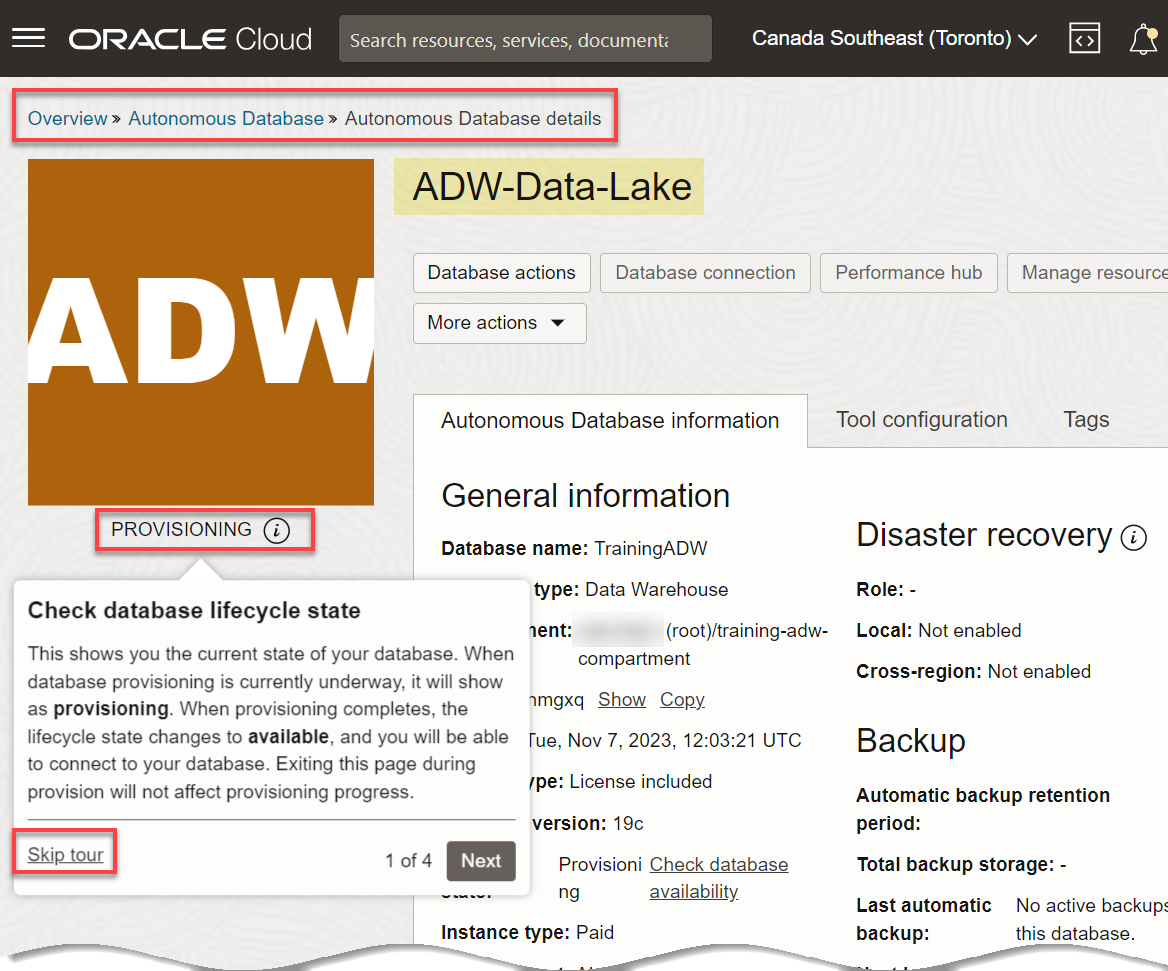
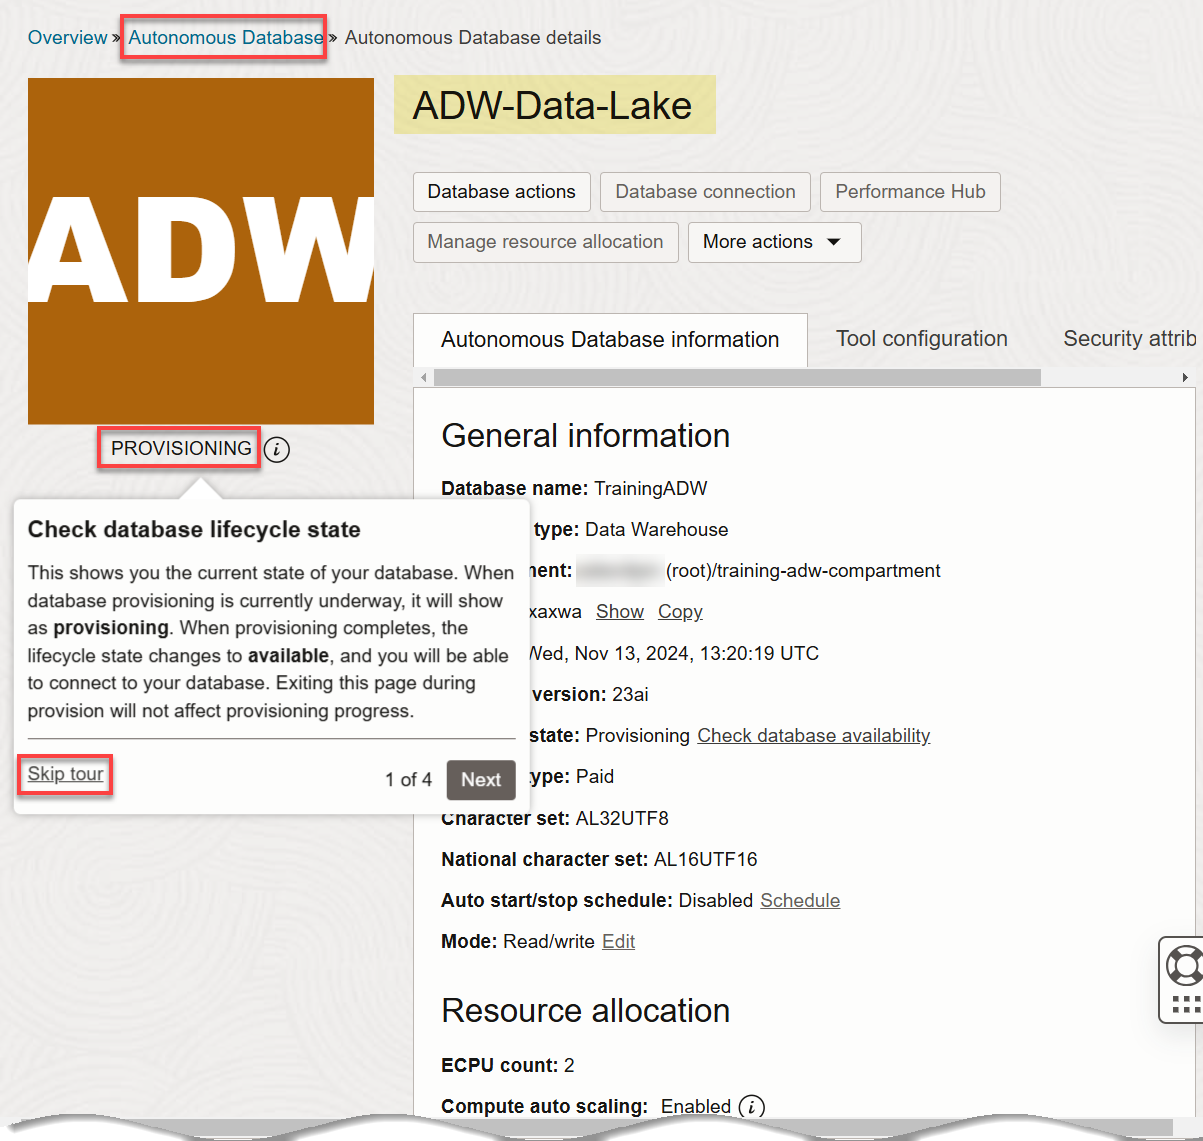
data share cloud links db actions green button version

diff --git a/shared/adw-data-lake/setup-live-data-sharing-db-actions/create-user-storage-credentials/create-user-storage-credentials.md b/shared/adw-data-lake/setup-live-data-sharing-db-actions/create-user-storage-credentials/create-user-storage-credentials.md
@@ -20,14 +20,27 @@ As an **`admin`** user, you will do the following:
 
 ## Task 1: Navigate to the Database Actions Launchpad
 
+<if type="livelabs">
+Your green button reservation includes an ADB instance. You can find the required credentials in the **Reservation Information** dialog box for your reservation. To log in to the Console, click the **Launch OCI** button in the **Reservation Information** dialog box, and then follow the prompts to reset your assigned password.
+</if>
+
+<if type="freetier">
 After you provisioned an ADB instance in the **Set up the Workshop Environment** lab, the **Autonomous Database details** page was displayed. If the page is active, start with **step 4** below. If the page had timed out, start with **step 1** below.
+</if>
 
 1. Log in to the **Oracle Cloud Console**, if you are not already logged in.
 
 2. Open the **Navigation** menu and click **Oracle Database**. Under **Oracle Database**, click **Autonomous Database**.
 
 3. On the **Autonomous Databases** page, click your **ADW-Data-Lake** ADB instance.
+    
+    <if type="freetier">
     ![The Autonomous Database is displayed and highlighted.](./images/adb-page.png " ")
+    </if>
+
+    <if type="livelabs">
+    ![The Autonomous Database is displayed and highlighted.](./images/ll-adb-page.png " ")
+    </if>
 
     >**Note:** If you get a _Forbidden_ message on the **Autonomous Databases** page, that indicates that you are in the wrong compartment. Refer to the **Reservation Information** panel for your reservation and make a note of your assigned compartment. Next, on the same page, click the **Compartment** drop-down list in the **Scope** section, and selected your assigned compartment.
 
@@ -47,9 +60,7 @@ Oracle Autonomous Database Serverless enables the data share provider to share e
 
 Autonomous Database comes with a predefined database role named `DWROLE`. This role provides the privileges necessary for most database users;however, The `DWROLE` role does not allocate any tablespace quota to the user. If the user is going to be adding data or other objects, you need to grant the user tablespace quota. For more information about this role, see [Manage Database User Privileges](https://docs.oracle.com/en-us/iaas/autonomous-database/doc/managing-database-users.html).
 
-1. Click **Database Actions Launchpad** in the banner to display the **Launchpad** page.
-
-2. Click the **Administration** tab, and then click the **Database Users** tab.
+1. On the **Database Actions Launchpad** page, click the **Administration** tab, and then click the **Database Users** tab.
 
     ![Click Administration and then Database Users.](./images/database-users.png " ")
 
@@ -57,24 +68,24 @@ Autonomous Database comes with a predefined database role named `DWROLE`. This r
 
     ![The User Management page.](./images/user-management-1.png " ")
 
-3. Click **Create User**. In the **Create User** panel, provide the following information in the **User** tab.
+2. Click **Create User**. In the **Create User** panel, provide the following information in the **User** tab.
 
     * **User Name:** `SHARE_PROVIDER`
     * **Password:** `DataShare4ADW`
-    * **Web Access:** Enable this field
     * **Quota on tablespace data:** `UNLIMITED`
-
+    * **Web Access:** Enable this field
+    
         ![The User tab.](./images/user-tab.png " ")
 
-4. Click the **Granted Roles** tab. In the **Filter by role** field, enter **`dwrole`**. The **DWROLE** row is displayed. Select the **Granted** and **Default** checkboxes.
+3. Click the **Granted Roles** tab. In the **Filter by role** field, enter **`dwrole`**. The **DWROLE** row is displayed. Select the **Granted** and **Default** checkboxes.
 
     ![The Granted Roles tab.](./images/granted-roles-tab.png " ")
 
-5. Click **Create User**. The new `SHARE_PROVIDER` user is displayed in the **User Management** page.
+4. Click **Create User**. The new `SHARE_PROVIDER` user is displayed in the **User Management** page.
 
     ![Share_provider user is created.](./images/share-provider-created.png " ")
 
-6. Click **Database Actions** in the banner to display the **Launchpad** page.
+5. Click **Database Actions** in the banner to display the **Launchpad** page.
 
     ![Click Database Actions.](./images/click-database-actions.png " ")
 
@@ -96,81 +107,7 @@ Autonomous Database comes with a predefined database role named `DWROLE`. This r
 
     ![The provider and consumer page is re-displayed.](./images/information.png " ")
 
-<!--
-
-5. Sign out of the **`ADMIN`** user.
-
-    ![Sign out.](./images/sign-out.png " ")
-
-6. Sign back in as the **`ADMIN`** user and enter the admin's password, **`Training4ADW`**. On the **Database Actions Launchpad** page, click the **Data Studio** tab, and then click the **Data Sharing** tab. The **Provider and Consumer** page is re-displayed.
-
-    ![Provider and Consumer page.](./images/provider-consumer-page.png " ")
-
--->
-
-<!--
-
-5. The first time you open the SQL Worksheet, a series of pop-up informational boxes may appear, providing you with a tour that introduces the main features. If not, click the **Tour** icon (binoculars) in the upper right corner of the toolbar. To take the tour through the informational boxes, click **Next**. To exit the tour, click the **X** control.
-
-    ![SQL Worksheet.](./images/adb-sql-worksheet-opening-tour.png " ")
-
-6. Click the **X** control to exit the tour. The SQL Worksheet is displayed.
-
-    ![The SQL Worksheet is displayed.](./images/sql-worksheet.png " ")
--->
-
-
-<!--
-Copy and paste the following script into your SQL Worksheet, and then click the **Run Script (F5)** icon in the Worksheet toolbar.
-
-    ```
-    <copy>
-    -- Create a new user that will provide the shared data.
-
-    CREATE USER share_provider IDENTIFIED BY DataShare4ADW;
-
-    -- Grant the new user the required role and privileges.
-
-    GRANT CONNECT TO share_provider;
-    GRANT DWROLE TO share_provider;
-    GRANT RESOURCE TO share_provider;
-    GRANT UNLIMITED TABLESPACE TO share_provider;
-
-    -- Enable REST.
-
-    BEGIN
-        ORDS_ADMIN.ENABLE_SCHEMA(
-            p_enabled => TRUE,
-            p_schema => 'SHARE_PROVIDER',
-            p_url_mapping_type => 'BASE_PATH',
-            p_url_mapping_pattern => 'share_provider',
-            p_auto_rest_auth=> TRUE
-        );
-
-    -- Enable data sharing.
-        DBMS_SHARE.ENABLE_SCHEMA(
-        SCHEMA_NAME => 'SHARE_PROVIDER',
-        ENABLED => TRUE
-        );
-       commit;
-    END;
-    /
-    </copy>
-    ```
-
-    ![Run the script](images/run-script.png)
-
-    The results are displayed in the **Script Output** tab.
-
-    ![View the script results](images/script-results.png)
-
-    >**Note:** If you can't see the newly created **share\_provider** user in the first drop-down list in the **Navigator** tab, log out of the **`admin`** user. On the **Oracle Database Actions | SQL** banner, click the drop-down list next to the **`ADMIN`** user, and then select **Sign Out** from the drop-down menu. Next, log back in as the **`ADMIN`** user. On the **Sign-in** page, enter **`ADMIN`** as the username and **`DataShare4ADW`** as the password, and then click **Sign in**. Click the the first drop-down menu and select the **share_provider** user.
-
-    ![Sign out to view the new user](images/sign-out.png)
-
--->
-
-## Task 3: (Optional) Create a Share Consumer User and Grant Privileges to the User
+## Task 4: (Optional) Create a Share Consumer User and Grant Privileges to the User
 
 Create a new consumer user named **`share_consumer`**.
 
@@ -184,9 +121,9 @@ Create a new consumer user named **`share_consumer`**.
 
     * **User Name:** `SHARE_CONSUMER`
     * **Password:** `DataShare4ADW`
+     * **Quota on tablespace data:** `UNLIMITED`
     * **Web Access:** Enable this field
-    * **Quota on tablespace data:** `UNLIMITED`
-
+   
         ![The User tab.](./images/share-consumer-user-tab.png " ")
 
 4. Click the **Granted Roles** tab. In the **Filter by role** field, enter **`dwrole`**. The **DWROLE** row is displayed. Select the **Granted** and **Default** checkboxes.
@@ -201,7 +138,7 @@ Create a new consumer user named **`share_consumer`**.
 
     ![Log out of admin](images/logout-admin.png)
 
-7. Log in as the newly created user, **`share_provider`**. On the **Sign-in** page, enter **`share_provider`** as the username and **`DataShare4ADW`** as the password, and then click **Sign in**. The Database Actions Launchpad page is displayed.
+7. Log in as the newly created user, **`share_provider`**. On the **Sign-in** page, enter **`share_provider`** as the username and **`DataShare4ADW`** as the password, and then click **Sign in**. The **Database Actions Launchpad** page is displayed.
 
     ![Log in as share_provider](images/login-share-provider.png)
 
@@ -219,7 +156,7 @@ You may now proceed to the next lab.
 
 * **Author:** Lauran K. Serhal, Consulting User Assistance Developer
 * **Contributor:** Alexey Filanovskiy, Senior Principal Product Manager
-* **Last Updated By/Date:** Lauran K. Serhal, July 2024
+* **Last Updated By/Date:** Lauran K. Serhal, November 2024
 
 Data about movies in this workshop were sourced from Wikipedia.
 
@@ -229,4 +166,4 @@ Permission is granted to copy, distribute and/or modify this document
 under the terms of the GNU Free Documentation License, Version 1.3
 or any later version published by the Free Software Foundation;
 with no Invariant Sections, no Front-Cover Texts, and no Back-Cover Texts.
-A copy of the license is included in the section entitled [GNU Free Documentation License](files/gnu-free-documentation-license.txt)
+A copy of the license is included in the section entitled [GNU Free Documentation License](https://oracle-livelabs.github.io/adb/shared/adb-15-minutes/introduction/files/gnu-free-documentation-license.txt)

diff --git a/shared/adw-data-lake/setup-live-data-sharing-db-actions/setup-workshop-environment/setup-workshop-environment.md b/shared/adw-data-lake/setup-live-data-sharing-db-actions/setup-workshop-environment/setup-workshop-environment.md
@@ -106,7 +106,7 @@ A Cloud Administrator can optionally create a compartment in your tenancy to hel
        * **Display Name:** **`ADW-Data-Lake`**.
        * **Database Name:** **`TrainingADW`**.
 
-       ![The completed "Provide basic information for the Autonomous Database" section is displayed.](./images/adb-basic-info.png " ")
+       ![The completed "Provide basic information for the Autonomous Database" section is displayed.](./images/adb-basic-info.png =75%x*)
 
 5. In the **Choose a workload type** section, accept the **Data Warehouse** default selection.
 
@@ -116,18 +116,21 @@ A Cloud Administrator can optionally create a compartment in your tenancy to hel
 
        ![The selected Shared Infrastructure option of the "Choose a deployment type" section is displayed and highlighted.](./images/adb-deployment-type.png " ")
 
-<!--- This is a comment. --->
-
 7. In the **Configure the database** section, accept the default selections as follows:
 
-       * **Always Free:** An Always Free database is especially useful for development and trying new features. You can deploy an Always Free instance in an Always Free account or a paid account. The only option you can specify in an Always Free database is the database version.  For this lab, we recommend that you leave the **Always Free** option disabled unless you are in an Always Free account.
-       * **Choose database version:** Accept the default selection.
-       * **ECPU count:** **`2`**.
-       * **Compute auto scaling:** Leave the checkbox checked (default).
-       * **Storage (TB):** **`1`** (TB).
-       * **Storage auto scaling:** Leave the checkbox unchecked (default).
+       - **Always Free**: An Always Free databases are especially useful for development and trying new features. You can deploy an Always Free instance in an Always Free account or paid account. However, it must be deployed in the home region of your tenancy. The only option you specify in an Always Free database is the database version. For this lab, we recommend you leave **Always Free** unchecked unless you are in an Always Free account.
+       - **Developer**: Developer databases provide a great low cost option for developing apps with Autonomous Database. You have similar features to Always Free - but are not limited in terms of region deployments or the number of databases in your tenancy. You can upgrade your Developer Database to a full paid version later and benefit from greater control over resources, backups and more.
+       - **Choose database version**: Select your database version from this drop-down list.
+       - **ECPU count**: Choose the number of ECPUs for your service. For this lab, specify **[](var:db_ocpu)**. If you choose an Always Free database, you do not need to specify this option.
+       - **Storage (TB)**: Select your storage capacity in terabytes. For this lab, specify **[](var:db_storage)** of storage. Or, if you choose an Always Free database, it comes with 20 GB of storage.
+       - **Compute auto scaling**: Accept the default which is enabled. This enables the system to automatically use up to three times more compute and IO resources to meet workload demand.
+       - **Storage auto scaling**: For this lab, there is no need to enable storage auto scaling, which would allow the system to expand up to three times the reserved storage.
 
-       ![The completed "Configure the database" section is displayed.](./images/adb-configure-db-ecpu.png " ")
+       > **Note:** You cannot scale up/down an Always Free autonomous database.
+
+       ![Choose the remaining parameters.](./images/adb-create-screen-configure-db-new.png =80%x*)
+
+       >**Note:** You can click the **Show advanced options** link to use your organization's on-premise licenses with **bring your own license** or to take advantage of database consolidation savings with **elastic pools**.
 
 8. In the **Backup retention** section, you can either accept the default value or specify your own preferred backup retention days value. Accept the default **60** days default value.
 
@@ -141,15 +144,15 @@ A Cloud Administrator can optionally create a compartment in your tenancy to hel
        **Important:** Make a note of this _password_ as you will need it to perform later tasks.
        * **Confirm password:** Confirm your password.
 
-       ![The completed "Create administrator credentials" section is displayed.](./images/adb-admin-credentials.png " ")
+       ![The completed "Create administrator credentials" section is displayed.](./images/adb-admin-credentials.png =65%x*)
 
 10. In the **Choose network access** section, select the **Secure access from everywhere** option as the access type.
 
        ![The selected "Secure access from everywhere" option of the "Choose network access" section is displayed and highlighted.](./images/adb-network-access.png " ")
 
-11. In the **Choose a license and Oracle Database edition** section, accept the default selection, **This Database is provisioned with License included license type**.
+11. In the **Provide contacts for operational notifications and announcements** section, do not provide a contact email address. The **Contact email** field allows you to list contacts to receive operational notices and announcements as well as unplanned maintenance notifications.
 
-       ![Accept the default license selection.](./images/license-default.png " ")
+       ![Do not provide a contact email address.](images/adb-create-screen-contact-email.png "email")
 
 12. Click __Create Autonomous Database__.
 
@@ -163,9 +166,9 @@ A Cloud Administrator can optionally create a compartment in your tenancy to hel
 
     In a few minutes, the instance status changes to **AVAILABLE**. At this point, your Autonomous Data Warehouse database instance is ready to use! Review your instance's details including its name, database version, ECPU count, and storage size.
 
-    ![The breadcrumbs and AVAILABLE Status on the Autonomous Database Details page are highlighted. The Autonomous Database Information tab displays many details about your provisioned database.](./images/adw-provisioned.png " ")
+    ![The Autonomous Database Information tab displays many details about your provisioned database.](./images/adb-provisioned.png " ")
 
-14. Click the **Autonomous Database** link in the breadcrumbs. The **Autonomous Database** page is displayed. The new Autonomous Database instance is displayed.
+13. Click the **Autonomous Database** link in the breadcrumbs. The **Autonomous Database** page is displayed. The new Autonomous Database instance is displayed.
 
     ![The provisioned Autonomous Database instance is displayed on the Autonomous Databases page. The state of the instance is AVAILABLE.](./images/adb-page.png " ")
 
@@ -181,7 +184,7 @@ You may now proceed to the next lab.
 ## Acknowledgements
 
 * **Author:** Lauran K. Serhal, Consulting User Assistance Developer
-* **Last Updated By/Date:** Lauran Serhal, July 2024
+* **Last Updated By/Date:** Lauran Serhal, November 2024
 
 Data about movies in this workshop were sourced from Wikipedia.
 

diff --git a/shared/adw-data-lake/setup-live-data-sharing-db-actions/consume-share/consume-share.md b/shared/adw-data-lake/setup-live-data-sharing-db-actions/consume-share/consume-share.md
@@ -21,7 +21,7 @@ Live data shared with you through data sharing is not automatically available fo
 
 ## Task 1: Log in as the share_consumer User
 
-1. Log in as the **`share_consumer`** user. On the **Sign-in** page, enter **`share_consumer`** as the username and **`TrainingADW`** as the password, and then click **Sign in**.
+1. Log in as the **`share_consumer`** user. On the **Sign-in** page, enter **`share_consumer`** as the username and **`DataShare4ADW`** as the password, and then click **Sign in**.
 
 2. On the **Database Actions Launchpad** page, click the **Data Studio** tab, and then click the **Data Share** tab.
 
@@ -43,7 +43,7 @@ Live data shared with you through data sharing is not automatically available fo
 
     The **Subscribe to Share Provider** wizard is displayed.
 
-    >**Note:** The **Available Live Share Providers in the last 7 Days** section displays the list of available Live Share Providers in the last 7 days. You can click the **+** sign to subscribe to a Live Share.
+    >**Note:** The **Available Live Share Providers in the last 7 Days** section displays the list of available Live Share Providers in the last 7 days. You can click the **+** sign to subscribe to a Live Share. It might take some time before you can see the published data share. You can use the **Refresh** icon to refresh the view.
 
 3. On the **Provider Settings** page 1 of the wizard, provide the following information:
 
@@ -94,7 +94,7 @@ In this task, you create a view based on the **`CUSTOMER_CONTACT`** table that w
 
 5. Let's query the newly created view. Click **Query**. You can also use the SQL Worksheet. An informational box is displayed. Close it.
 
-6. Click **Run**. The query result is displayed in the **Query Result** tab.
+6. The query result is already displayed; however, you can click **Run** to run it again. The query result is displayed in the **Query Result** tab.
 
     ![Query table share.](images/query-customer-share.png)
 
@@ -112,7 +112,7 @@ You may now proceed to the next lab.
 
 * **Author:** Lauran K. Serhal, Consulting User Assistance Developer
 * **Contributor:** Alexey Filanovskiy, Senior Principal Product Manager
-* **Last Updated By/Date:** Lauran K. Serhal, July 2024
+* **Last Updated By/Date:** Lauran K. Serhal, November 2024
 
 Data about movies in this workshop were sourced from Wikipedia.
 
@@ -122,4 +122,4 @@ Permission is granted to copy, distribute and/or modify this document
 under the terms of the GNU Free Documentation License, Version 1.3
 or any later version published by the Free Software Foundation;
 with no Invariant Sections, no Front-Cover Texts, and no Back-Cover Texts.
-A copy of the license is included in the section entitled [GNU Free Documentation License](files/gnu-free-documentation-license.txt)
+A copy of the license is included in the section entitled [GNU Free Documentation License](https://oracle-livelabs.github.io/adb/shared/adb-15-minutes/introduction/files/gnu-free-documentation-license.txt)

diff --git a/shared/adw-data-lake/setup-live-data-sharing-db-actions/create-share/create-share.md b/shared/adw-data-lake/setup-live-data-sharing-db-actions/create-share/create-share.md
@@ -112,7 +112,7 @@ When you create the data share using the share live data using direct connection
 
     ![Click Create.](images/recipient-wizard-page.png " ")
 
-11. **Create** to create the data share. The **Provide Share** page is displayed. The new data share is displayed in the entities section. An informational message is displayed about the publishing process of the data share has started.
+11. Click **Create** to create the data share. The **Provide Share** page is displayed. The new data share is displayed in the entities section. An informational message is displayed about the publishing process of the data share has started.
 
     ![Data share created.](images/data-share-created.png " ")
 
@@ -120,7 +120,7 @@ When you create the data share using the share live data using direct connection
 
     ![Click Actions.](images/click-actions.png " ")
 
-13. Log out of the **`SHARE_PROVIDER`** user. On the **Oracle Database Actions | Data Share** banner, click the drop-down list next to the `SHARE_PROVIDER` user, and then select **Sign Out** from the drop-down menu. If you are prompted to leave, click **Leave**.
+13. Log out of the **`SHARE_PROVIDER`** user. On the **Oracle Database Actions | Data Share** banner, click the drop-down list next to the `SHARE_PROVIDER` user, and then select **Sign Out** from the drop-down menu.
 
 You may now proceed to the next lab.
 
@@ -134,7 +134,7 @@ You may now proceed to the next lab.
 
 * **Author:** Lauran K. Serhal, Consulting User Assistance Developer
 * **Contributor:** Alexey Filanovskiy, Senior Principal Product Manager
-* **Last Updated By/Date:** Lauran K. Serhal, July 2024
+* **Last Updated By/Date:** Lauran K. Serhal, November 2024
 
 Data about movies in this workshop were sourced from Wikipedia.
 
@@ -144,4 +144,4 @@ Permission is granted to copy, distribute and/or modify this document
 under the terms of the GNU Free Documentation License, Version 1.3
 or any later version published by the Free Software Foundation;
 with no Invariant Sections, no Front-Cover Texts, and no Back-Cover Texts.
-A copy of the license is included in the section entitled [GNU Free Documentation License](files/gnu-free-documentation-license.txt)
+A copy of the license is included in the section entitled [GNU Free Documentation License](https://oracle-livelabs.github.io/adb/shared/adb-15-minutes/introduction/files/gnu-free-documentation-license.txt)

diff --git a/shared/adw-data-lake/setup-live-data-sharing-db-actions/load-os-data-public/load-os-data-public.md b/shared/adw-data-lake/setup-live-data-sharing-db-actions/load-os-data-public/load-os-data-public.md
@@ -121,7 +121,7 @@ You may now proceed to the next lab.
 
 * **Author:** Lauran Serhal, Consulting User Assistance Developer
 * **Contributors:** Alexey Filanovskiy, Senior Principal Product Manager
-* **Last Updated By/Date:** Lauran Serhal, July 2024
+* **Last Updated By/Date:** Lauran Serhal, November 2024
 
 Data about movies in this workshop were sourced from Wikipedia.
 
@@ -131,4 +131,4 @@ Permission is granted to copy, distribute and/or modify this document
 under the terms of the GNU Free Documentation License, Version 1.3
 or any later version published by the Free Software Foundation;
 with no Invariant Sections, no Front-Cover Texts, and no Back-Cover Texts.
-A copy of the license is included in the section entitled [GNU Free Documentation License](files/gnu-free-documentation-license.txt)
+A copy of the license is included in the section entitled [GNU Free Documentation License](https://oracle-livelabs.github.io/adb/shared/adb-15-minutes/introduction/files/gnu-free-documentation-license.txt)

diff --git a/shared/adw-data-lake/use-data-sharing-cloud-links-plsql/create-user/create-user.md b/shared/adw-data-lake/use-data-sharing-cloud-links-plsql/create-user/create-user.md
@@ -22,6 +22,10 @@ This lab assumes that you have successfully completed all of the preceding labs 
 
 ## Task 1: Navigate to the SQL Worksheet
 
+<if type="livelabs">
+Your green button reservation includes an ADB instance. You can find the required credentials in the **Reservation Information** dialog box for your reservation. To log in to the Console, click the **Launch OCI** button in the **Reservation Information** dialog box, and then follow the prompts to reset your assigned password.
+</if>
+
 1. Log in to the **Oracle Cloud Console**, if you are not already logged in.
 
 2. Open the **Navigation** menu and click **Oracle Database**. Under **Oracle Database**, click **Autonomous Database**.

diff --git a/shared/adw-data-lake/setup-live-data-sharing-db-actions/introduction/introduction.md b/shared/adw-data-lake/setup-live-data-sharing-db-actions/introduction/introduction.md
@@ -79,7 +79,7 @@ You may now proceed to the next lab.
 
 * **Author:** Lauran K. Serhal, Consulting User Assistance Developer
 * **Contributor:** Alexey Filanovskiy, Senior Product Manager
-* **Last Updated By/Date:** Lauran K. Serhal, July 2024
+* **Last Updated By/Date:** Lauran K. Serhal, November 2024
 
 Data about movies in this workshop were sourced from Wikipedia.
 
